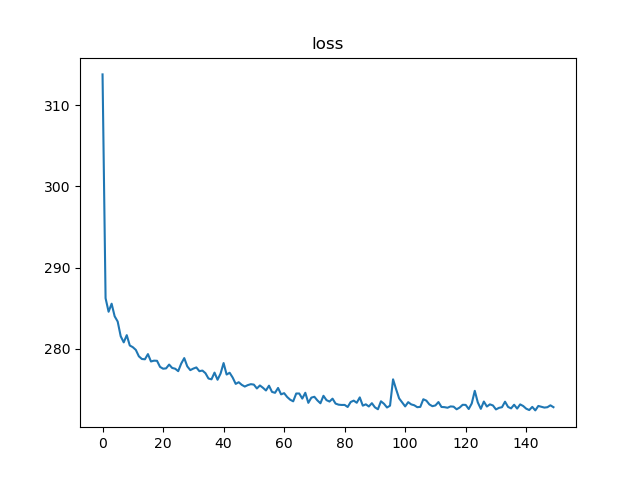
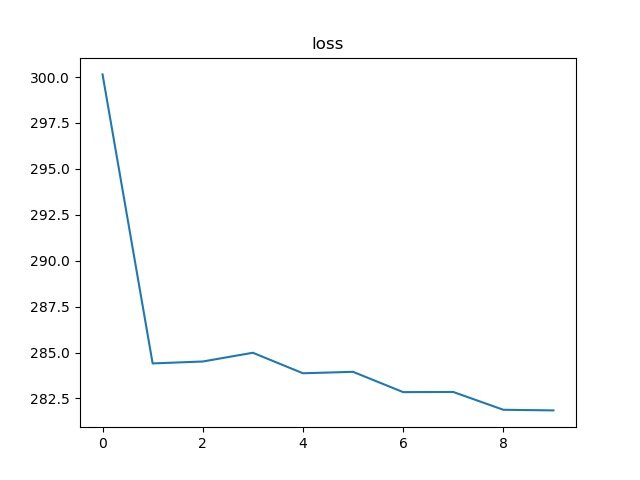
notice loss function miss

diff --git a/src/utils/load_datasets.py b/src/utils/load_datasets.py
@@ -5,6 +5,7 @@ import cv2
 import numpy as np
 import torch
 import torchvision
+from . import functions as fc
 
 ras2bits = 0.71
 IP = {0: 202.5, 1: 247.5, 2: 292.5, 3: 157.5, 5: 337.5, 6: 22.5, 7: 67.5, 8: 112.5}
@@ -123,7 +124,21 @@ class CrowdDatasets(torch.utils.data.Dataset):
         gt_flow_img_data = np.concatenate(gt_flow_list, axis=2)
         gt_flow_img_data /= np.max(gt_flow_img_data)
 
+        """
+        # テスト
+        traj = np.sum(gt_flow_img_data, axis=2)
+        print(traj.shape)
+
+        root = os.getcwd()
+        imgfolder = root + "/images/"
+        heatmap = cv2.resize(traj, (traj.shape[1]*8, traj.shape[0]*8))
+        heatmap = np.array(heatmap*255, dtype=np.uint8)
+        cv2.imwrite(imgfolder+"flow_test.png", heatmap)
+        # print(gt_flow_img_data.shape)
+        # print(np.max(np.sum(gt_flow_img_data, axis=2)))
+
         gt_flow_img_data = self.transform(gt_flow_img_data)
+        """
 
         return gt_flow_img_data
 
@@ -148,6 +163,8 @@ class CrowdDatasets(torch.utils.data.Dataset):
 
         input_img = self.transform(input_img)
         mask_img = self.transform(mask_img)
+        # print(torch.max(mask_img))
+        # print(torch.min(mask_img))
 
         return input_img, mask_img
 

diff --git a/src/utils/functions.py b/src/utils/functions.py
@@ -10,6 +10,8 @@ class AllLoss():
     def __init__(self, optical_loss_on=1, batchsize=1):
         # super().__init__()
         self.optical_loss_on = optical_loss_on
+        if self.optical_loss_on == 0:
+            print("***Not Using Optical Loss***")
         self.bathsize = batchsize
 
     def forward(self, tm_personlabel, t_person_label, tm2t_flow_label,
@@ -46,7 +48,7 @@ class AllLoss():
         return loss_combi
 
     def flow_loss(self, output_before_forward, output_after_forward, label):
-        est_sum_before = torch.sum(output_before_forward, dim=1, keepdim=True)
+        est_sum_before = torch.sum(output_before_forward, dim=1, keepdim=True)  # ここの計算が違う論文みて実装を改良する
         est_sum_after = torch.sum(output_after_forward, dim=1, keepdim=True)
 
         res_before = label - est_sum_before

diff --git a/src/train.py b/src/train.py
@@ -22,7 +22,7 @@ def train():
     train_d_path = args.path
 
     minibatch_size = 32
-    epock_num = 150
+    epock_num = 10
 
     device = torch.device("cuda:0" if torch.cuda.is_available() else "cpu")
     # device = "cpu"
@@ -51,7 +51,7 @@ def train():
         Traindataset, batch_size=minibatch_size, shuffle=True)
     data_len = len(Traindataset)
 
-    criterion = functions.AllLoss(batchsize=minibatch_size)
+    criterion = functions.AllLoss(batchsize=minibatch_size, optical_loss_on=0)
     optimizer = optim.Adam(
         CANnet.parameters(),
         lr=0.001,

diff --git a/src/test.py b/src/test.py
@@ -25,7 +25,7 @@ def test():
     model_weights = args.model_weight
     is_normalize = args.normarize_loss
 
-    minibatch_size = 1
+    minibatch_size = 32
 
     device = torch.device("cuda:0" if torch.cuda.is_available() else "cpu")
 
